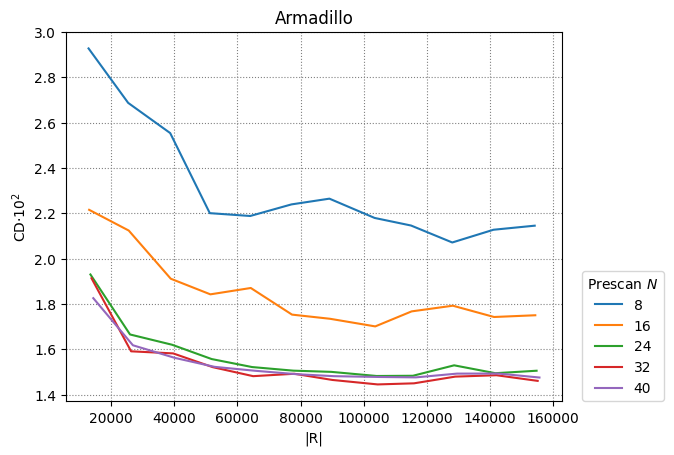
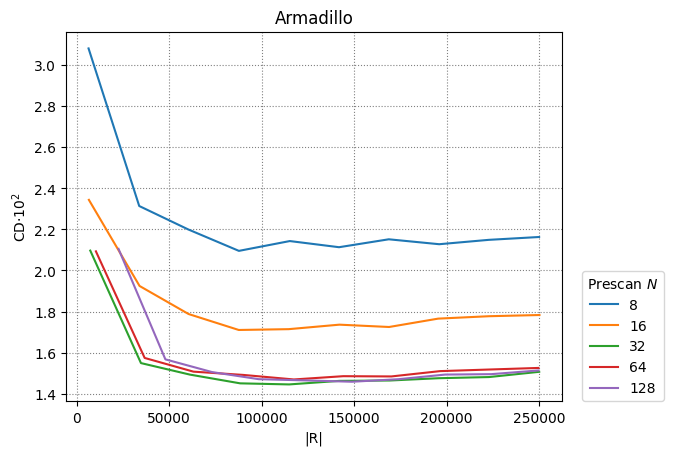
optimize prescan

diff --git a/ray_field/prescan_cone.py b/ray_field/prescan_cone.py
@@ -12,12 +12,7 @@ from numpy import ndarray
 class PrescanCone(Algorithm):
     prescan_n: int = 64
     targeted_m: str = '128'
-    hausdorff_samples = {
-        'armadillo': 774,
-        'happy_buddha': 18,
-        'bunny': 7,
-        'dragon': 75,
-    }
+    chamfer_samples: int = 2
 
     def surface_reconstruction(model_name: CheckpointName, N: int) -> TriangleMesh:
         model, device = utils.init_model(model_name)
@@ -373,36 +368,42 @@ class PrescanCone(Algorithm):
     
     def optimize(model_name: CheckpointName, length: int, M_values: list[int]) -> tuple[list[list[float]], list[list[int]]]:   
         model, device = utils.init_model(model_name)
-        N_values = np.linspace(50, 1900, length, dtype=int)
 
-        distances = np.zeros((len(M_values), len(N_values)))
-        R_values = np.zeros((len(M_values), len(N_values)), dtype=int)
+        distances = np.zeros((len(M_values), length))
+        R_values = np.zeros((len(M_values), length), dtype=int)
 
         with torch.no_grad():
             for i in range(len(M_values)):
                 M = M_values[i]
                 origins, dirs = utils.generate_sphere_rays_tensor(M, device)
                 broad_intersections, broad_normals = PrescanCone._broad_scan(model, origins, dirs)
+                rays_n = dirs.shape[0] * dirs.shape[2]
+                R_values[i].fill(rays_n)
+                N_end = int((250000 - rays_n) / int(PrescanCone.targeted_m))
 
-                R_values[i].fill(dirs.shape[0] * dirs.shape[2])
+                N_values = np.linspace(50, N_end, length, dtype=int)
 
                 for j in range(len(N_values)):
                     N = N_values[j]
-                    print(f'M: {M}\tN: {N}', end='\t')
+                    print(f'M: {M}\tN: {N}')
 
-                    origins, dirs = PrescanCone._generate_cone_rays(broad_intersections, N, device, PrescanCone.targeted_m)
-                    intersections, intersection_normals = PrescanCone._targeted_scan(model, origins, dirs)
-                    intersections, intersection_normals = PrescanCone._cat_and_move(intersections, intersection_normals, broad_intersections, broad_normals)
-            
-                    mesh = utils.poisson_surface_reconstruction(intersections, intersection_normals, PrescanCone.poisson_depth)
-                    distance = utils.chamfer_distance_to_stanford(model_name, mesh, PrescanCone.dist_samples)
+                    for k in range(PrescanCone.chamfer_samples):
+                        origins, dirs = PrescanCone._generate_cone_rays(broad_intersections, N, device, PrescanCone.targeted_m)
+                        intersections, intersection_normals = PrescanCone._targeted_scan(model, origins, dirs)
+                        intersections, intersection_normals = PrescanCone._cat_and_move(intersections, intersection_normals, broad_intersections, broad_normals)
+                
+                        mesh = utils.poisson_surface_reconstruction(intersections, intersection_normals, PrescanCone.poisson_depth)
+                        distance = utils.chamfer_distance_to_stanford(model_name, mesh, PrescanCone.dist_samples)
 
-                    distances[i][j] = distance
-                    R_values[i][j] = R_values[i][j] + dirs.shape[0] * dirs.shape[2]
+                        distances[i][j] = distances[i][j] + distance
+                        
+                        if k == 0:
+                            R_values[i][j] = R_values[i][j] + dirs.shape[0] * dirs.shape[2]
+
+                        del origins, dirs, intersections, intersection_normals, mesh
+                        torch.cuda.empty_cache()
+                        gc.collect()
                     
-                    print(f'{distance:.6f}')
-
-                    del origins, dirs, intersections, intersection_normals, mesh
                     torch.cuda.empty_cache()
                     gc.collect()
                 
@@ -413,6 +414,8 @@ class PrescanCone(Algorithm):
         del model
         torch.cuda.empty_cache()
         gc.collect()
+
+        distances = distances / PrescanCone.chamfer_samples
 
         return distances, R_values
     

diff --git a/ray_field/candidate_sphere.py b/ray_field/candidate_sphere.py
@@ -12,6 +12,7 @@ from numpy import ndarray
 class CandidateSphere(Algorithm):
     prescan_n: int = 64
     targeted_m: str = '8'
+    chamfer_samples: int = 14
 
     def surface_reconstruction(model_name: CheckpointName, N: int) -> TriangleMesh:
         model, device = utils.init_model(model_name)
@@ -371,8 +372,8 @@ class CandidateSphere(Algorithm):
         model, device = utils.init_model(model_name)
         N_values = np.linspace(50, 1900, length, dtype=int)
 
-        distances = np.zeros((len(M_values), len(N_values)))
-        R_values = np.zeros((len(M_values), len(N_values)), dtype=int)
+        distances = np.zeros((len(M_values), length))
+        R_values = np.zeros((len(M_values), length), dtype=int)
 
         with torch.no_grad():
             for i in range(len(M_values)):
@@ -380,35 +381,48 @@ class CandidateSphere(Algorithm):
                 origins, dirs = utils.generate_sphere_rays_tensor(M, device)
                 all_intersections, all_is_intersecting = CandidateSphere._broad_scan(model, origins, dirs)
                 radii, centers = CandidateSphere._generate_candidate_spheres(all_intersections, all_is_intersecting)
+                rays_n = dirs.shape[0] * dirs.shape[2]
+                R_values[i].fill(rays_n)
+                N_end = int((250000 - rays_n) / (int(CandidateSphere.targeted_m) * 16))
 
-                R_values[i].fill(dirs.shape[0] * dirs.shape[2])
+                N_values = np.linspace(50, N_end, length, dtype=int)
+
+                del all_intersections, all_is_intersecting
+                torch.cuda.empty_cache()
+                gc.collect()
 
                 for j in range(len(N_values)):
                     N = N_values[j]
-                    print(f'M: {M}\tN: {N}', end='\t')
+                    print(f'M: {M}\tN: {N}')
 
-                    origins, dirs = CandidateSphere._generate_candidate_rays(radii, centers, N, device, CandidateSphere.targeted_m)
-                    intersections, intersection_normals = CandidateSphere._targeted_scan(model, origins, dirs)
-            
-                    mesh = utils.poisson_surface_reconstruction(intersections, intersection_normals, CandidateSphere.poisson_depth)
-                    distance = utils.chamfer_distance_to_stanford(model_name, mesh, CandidateSphere.dist_samples)
+                    for k in range(CandidateSphere.chamfer_samples):
+                        origins, dirs = CandidateSphere._generate_candidate_rays(radii, centers, N, device, CandidateSphere.targeted_m)
+                        intersections, intersection_normals = CandidateSphere._targeted_scan(model, origins, dirs)
+                
+                        mesh = utils.poisson_surface_reconstruction(intersections, intersection_normals, CandidateSphere.poisson_depth)
+                        distance = utils.chamfer_distance_to_stanford(model_name, mesh, CandidateSphere.dist_samples)
 
-                    distances[i][j] = distance
-                    R_values[i][j] = R_values[i][j] + dirs.shape[0] * dirs.shape[2]
+                        distances[i][j] = distances[i][j] + distance
+
+                        if k == 0:
+                            R_values[i][j] = R_values[i][j] + dirs.shape[0] * dirs.shape[2]
+
+                        del origins, dirs, intersections, intersection_normals, mesh
+                        torch.cuda.empty_cache()
+                        gc.collect()
                     
-                    print(f'{distance:.6f}')
-
-                    del origins, dirs, intersections, intersection_normals, mesh
                     torch.cuda.empty_cache()
                     gc.collect()
                 
-                del all_intersections, all_is_intersecting, radii, centers
+                del radii, centers
                 torch.cuda.empty_cache()
                 gc.collect()
         
         del model
         torch.cuda.empty_cache()
         gc.collect()
+
+        distances = distances / CandidateSphere.chamfer_samples
 
         return distances, R_values
     

diff --git a/analysis/optimize_prescan.py b/analysis/optimize_prescan.py
@@ -14,10 +14,9 @@ matplotlib.use('Agg')
 DIR_PATH = 'analysis/data/optimize_prescan/'
 
 def compute_values(model_name: CheckpointName, algorithm: type[Algorithm]) -> tuple[list[int], list[list[int]], list[list[float]]]:
-    N_values = list(range(50, 601, 50))
-    M_values = list(range(8, 41, 8))
+    M_values = [8, 16, 32, 64, 128]
     
-    distances, R_values = algorithm.optimize(model_name, N_values, M_values)
+    distances, R_values = algorithm.optimize(model_name, 10, M_values)
 
     return M_values, R_values, distances
 

diff --git a/ray_field/algorithm.py b/ray_field/algorithm.py
@@ -4,7 +4,7 @@ from open3d.geometry import TriangleMesh
 
 class Algorithm(ABC):
     poisson_depth: int = 8
-    time_samples: int = 50
+    time_samples: int = 62
     dist_samples: int = 30000
 
     @staticmethod
